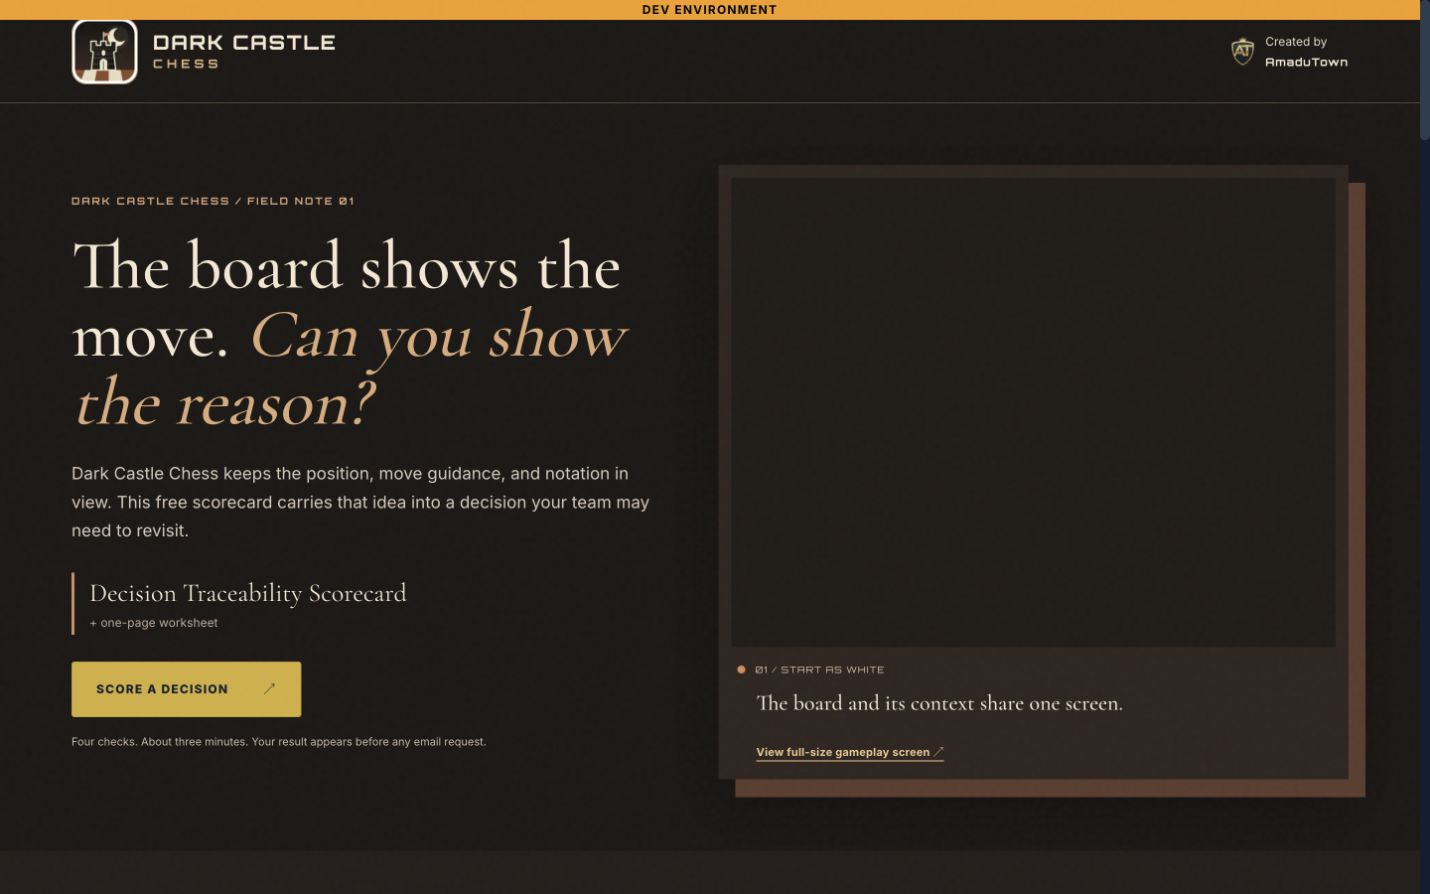
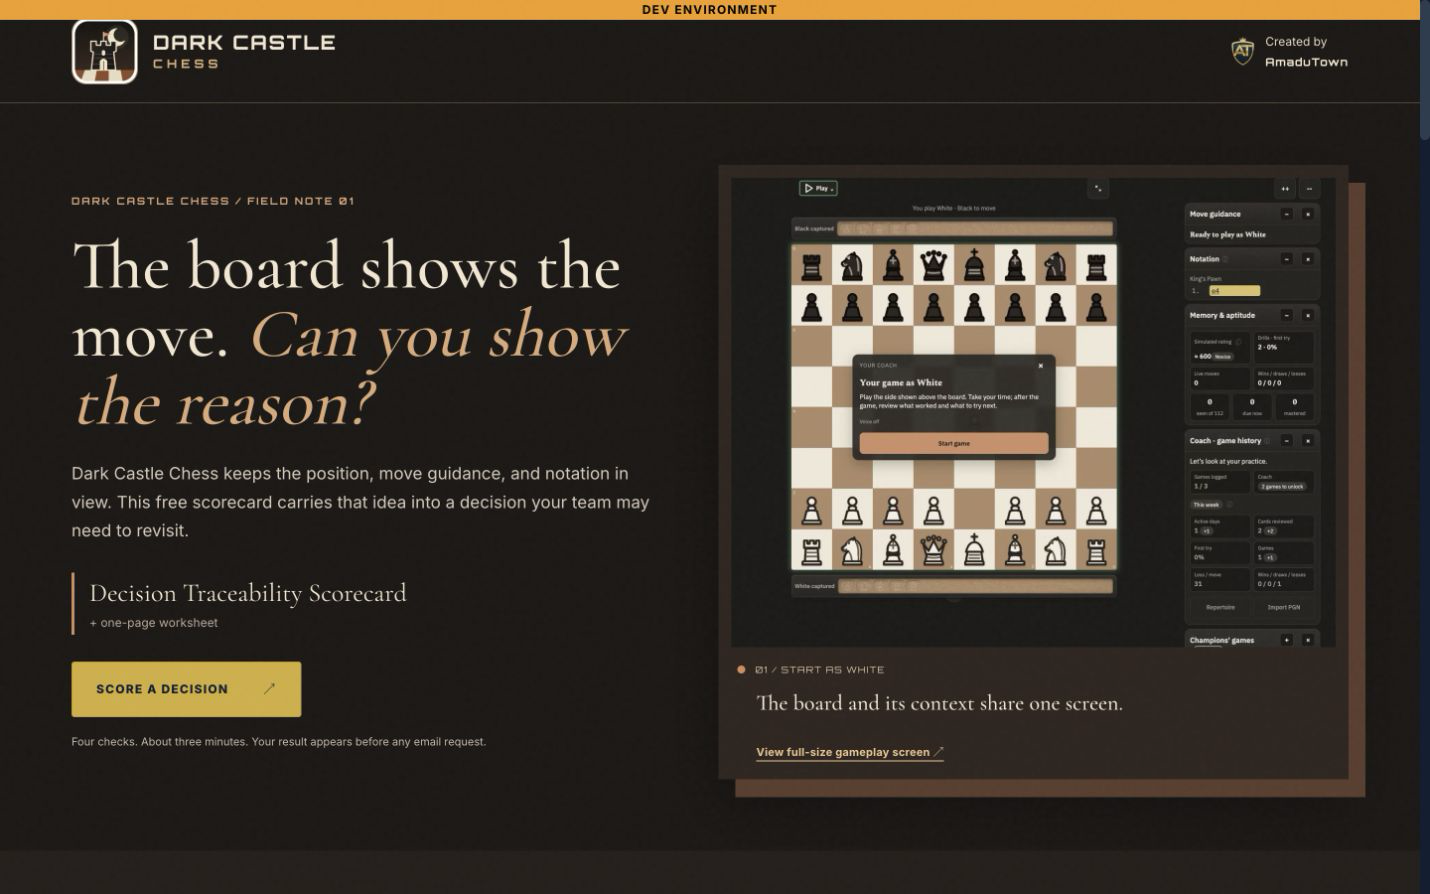
test: recapture loaded Dark Castle desktop hero

diff --git a/docs/qa/decision-traceability/README.md b/docs/qa/decision-traceability/README.md
@@ -4,11 +4,13 @@ Product source commit: `ce4e0ba732af12eddb3127b16c1644eaefad4f80` on `codex/amin
 
 Exact loaded route: `http://localhost:3127/decision-traceability-scorecard?utm_source=linkedin&utm_medium=organic_social&utm_campaign=dark_castle_decision_traceability&rev=ce4e0ba732af12eddb3127b16c1644eaefad4f80`
 
+Desktop hero refresh route: `http://localhost:3127/decision-traceability-scorecard?utm_source=linkedin&utm_medium=organic_social&utm_campaign=dark_castle_decision_traceability&rev=2e550ba7c6c2dab02553137cc33dbd6085874dea`. The server was restarted from that evidence head before the recapture.
+
 The localhost server was restarted from that commit with `MOCK_N8N=true N8N_DISABLE_OUTBOUND=true npm run dev -- -p 3127`. The in-app browser showed the owned Dark Castle Chess logo and wordmark in the first viewport, AmaduTown as creator, three distinct owned gameplay screenshots, the four-check assessment, score, optional email consent, and the one-page PDF. The gameplay sequence is game start, Explore after e4, then the board and candidate moves after Black plays e5. Image captions distinguish visible product states from the scorecard's organizational questions. Full-size links allow closer inspection of small gameplay UI text on narrow screens; the computer-response link was opened and resolved to the 1248 × 969 source image.
 
 ## Evidence
 
-- `desktop-hero.png`: first viewport at 1440 × 900 with the Dark Castle logo and offer.
[1 lines of base64/hex data omitted]
 - `desktop-proof-position.png` and `desktop-proof-response.png`: the two later gameplay states at desktop width.
 - `desktop-result.png`: full desktop page with a 5/8 score and invalid-email recovery state.
 - `tablet-result.png`: full page at 768 pixels.
